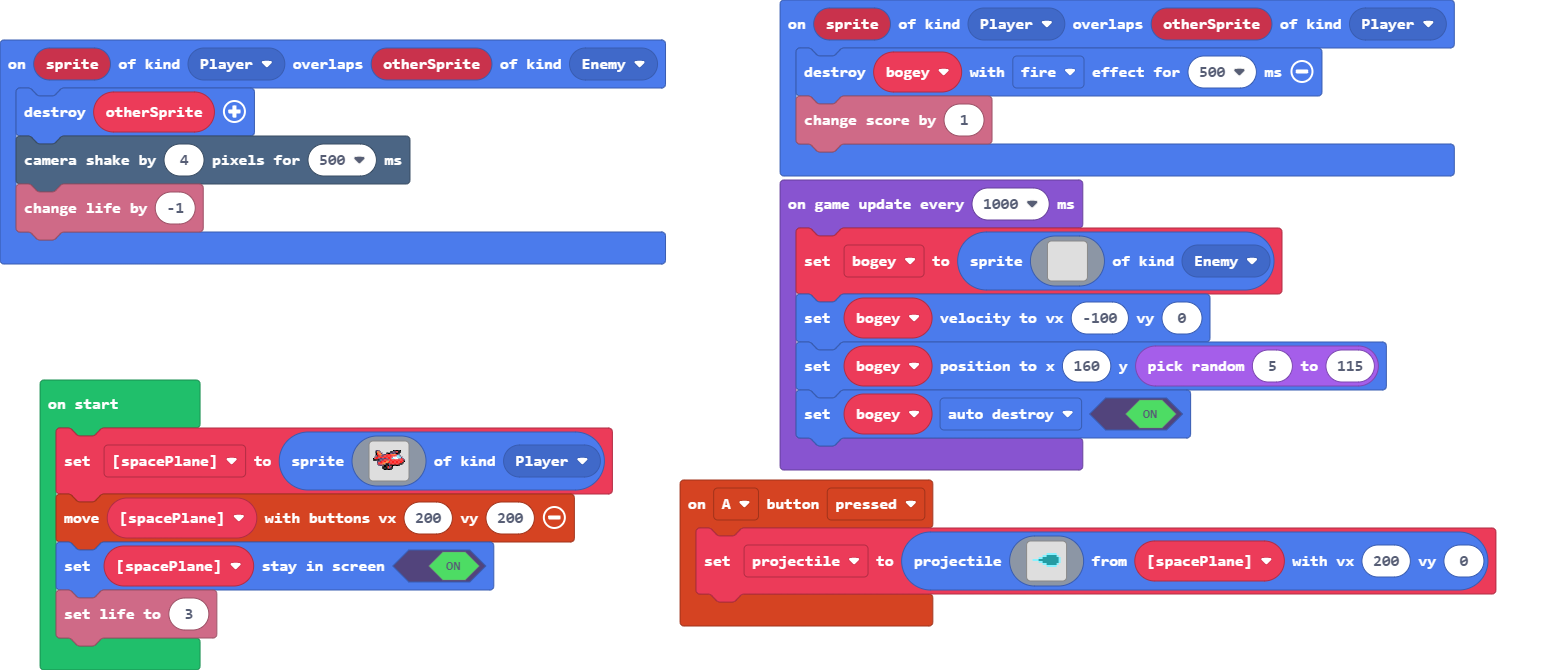
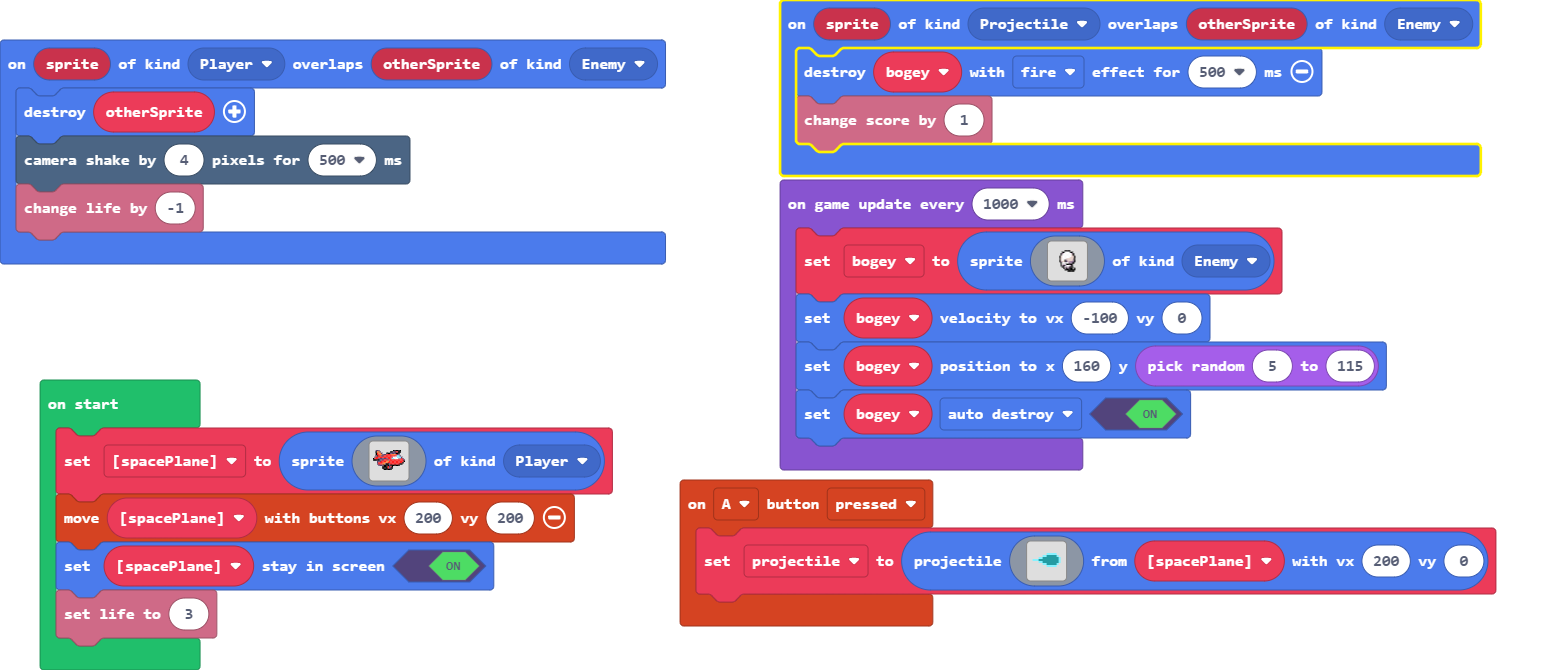
Update main.blocks, main.ts

Changed region(s): [[0.4961, 0.0, 0.9612, 0.2687], [0.6822, 0.3582, 0.7132, 0.4179], [0.4961, 0.0, 0.5271, 0.0299]]

diff --git a/main.ts b/main.ts
@@ -18,7 +18,7 @@ controller.A.onEvent(ControllerButtonEvent.Pressed, function () {
         . . . . . . . . . . . . . . . . 
         `, spacePlane, 200, 0)
 })
-sprites.onOverlap(SpriteKind.Player, SpriteKind.Player, function (sprite, otherSprite) {
+sprites.onOverlap(SpriteKind.Projectile, SpriteKind.Enemy, function (sprite, otherSprite) {
     bogey.destroy(effects.fire, 500)
     info.changeScoreBy(1)
 })
@@ -53,22 +53,30 @@ spacePlane.setStayInScreen(true)
 info.setLife(3)
 game.onUpdateInterval(1000, function () {
     bogey = sprites.create(img`
-        . . . . . . . . . . . . . . . . 
-        . . . . . . . . . . . . . . . . 
-        . . . . . . . . . . . . . . . . 
-        . . . . . . . . . . . . . . . . 
-        . . . . . . . . . . . . . . . . 
-        . . . . . . . . . . . . . . . . 
-        . . . . . . . . . . . . . . . . 
-        . . . . . . . . . . . . . . . . 
-        . . . . . . . . . . . . . . . . 
-        . . . . . . . . . . . . . . . . 
-        . . . . . . . . . . . . . . . . 
-        . . . . . . . . . . . . . . . . 
-        . . . . . . . . . . . . . . . . 
-        . . . . . . . . . . . . . . . . 
-        . . . . . . . . . . . . . . . . 
-        . . . . . . . . . . . . . . . . 
+        ........................
+        ........................
+        ........................
+        ........................
+        ..........ffff..........
+        ........ff1111ff........
+        .......fb111111bf.......
+        .......f1111111df.......
+        ......fd1111111ddf......
+        ......fd111111dddf......
+        ......fd111ddddddf......
+        ......fd1dfbddddbf......
+        ......fbddfcdbbbcf......
+        .......f11111bbcf.......
+        .......f1b1fffff........
+        .......fbfc111bf........
+        ........ff1b1bff........
+        .........fbfbfff.f......
+        ..........ffffffff......
+        ............fffff.......
+        ........................
+        ........................
+        ........................
+        ........................
         `, SpriteKind.Enemy)
     bogey.setVelocity(-100, 0)
     bogey.setPosition(160, randint(5, 115))
